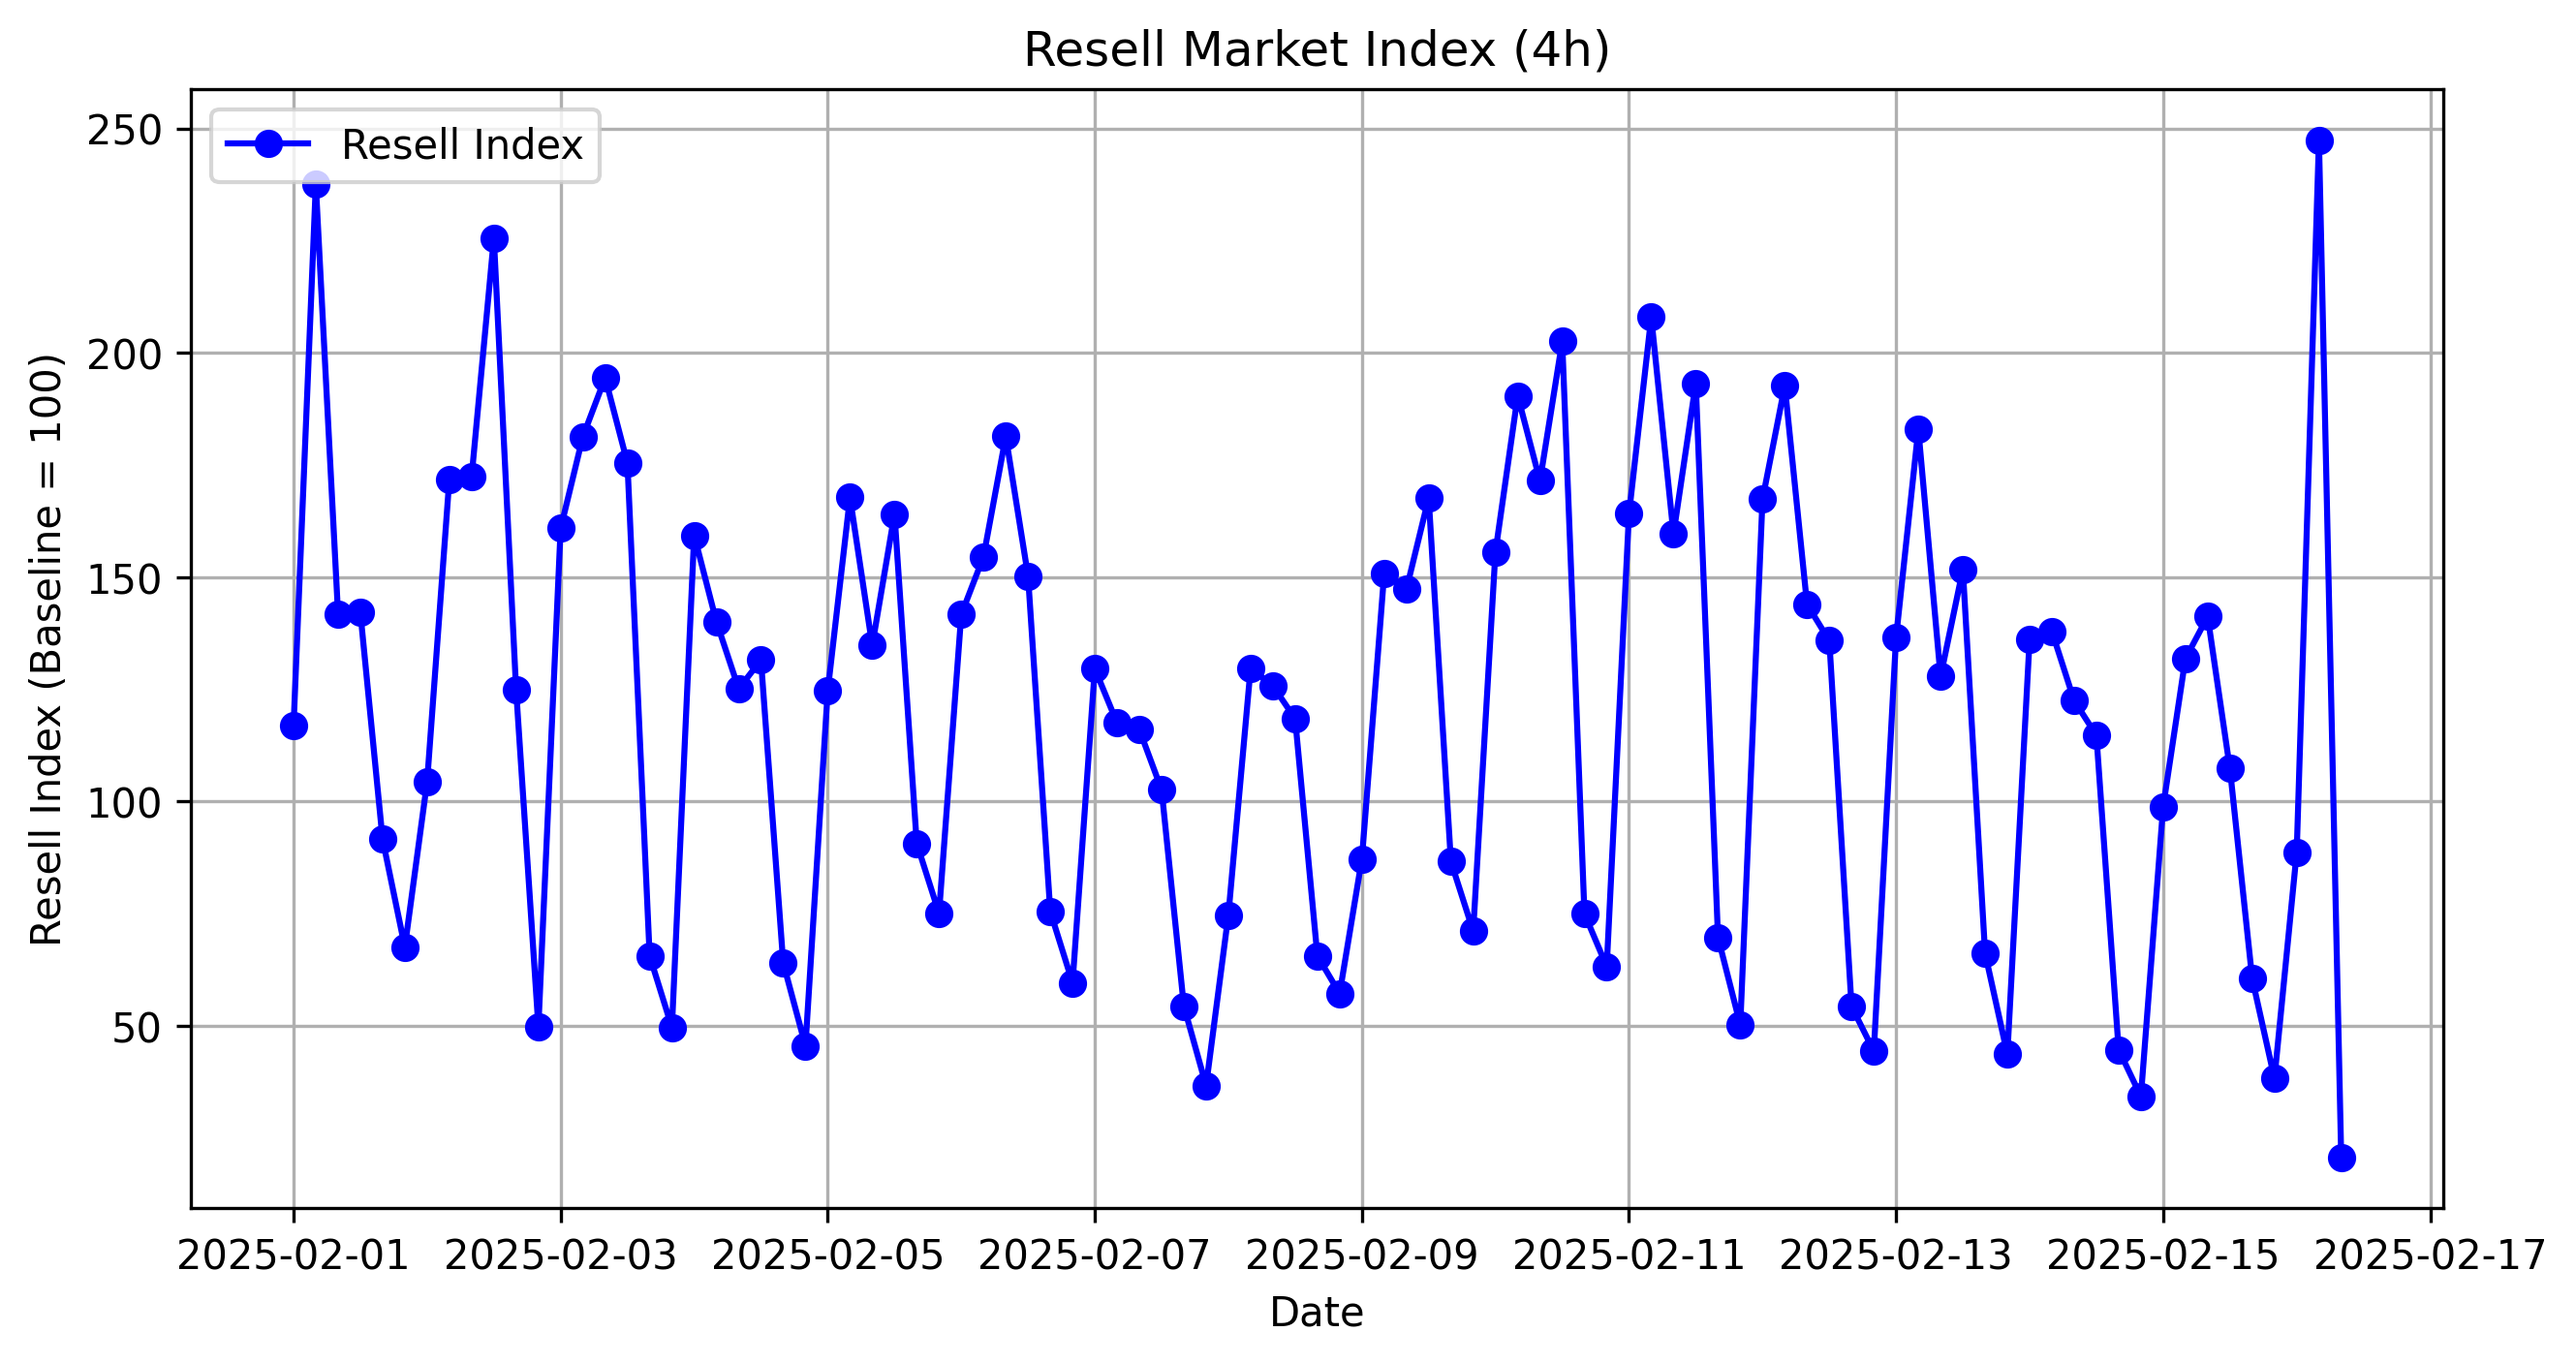
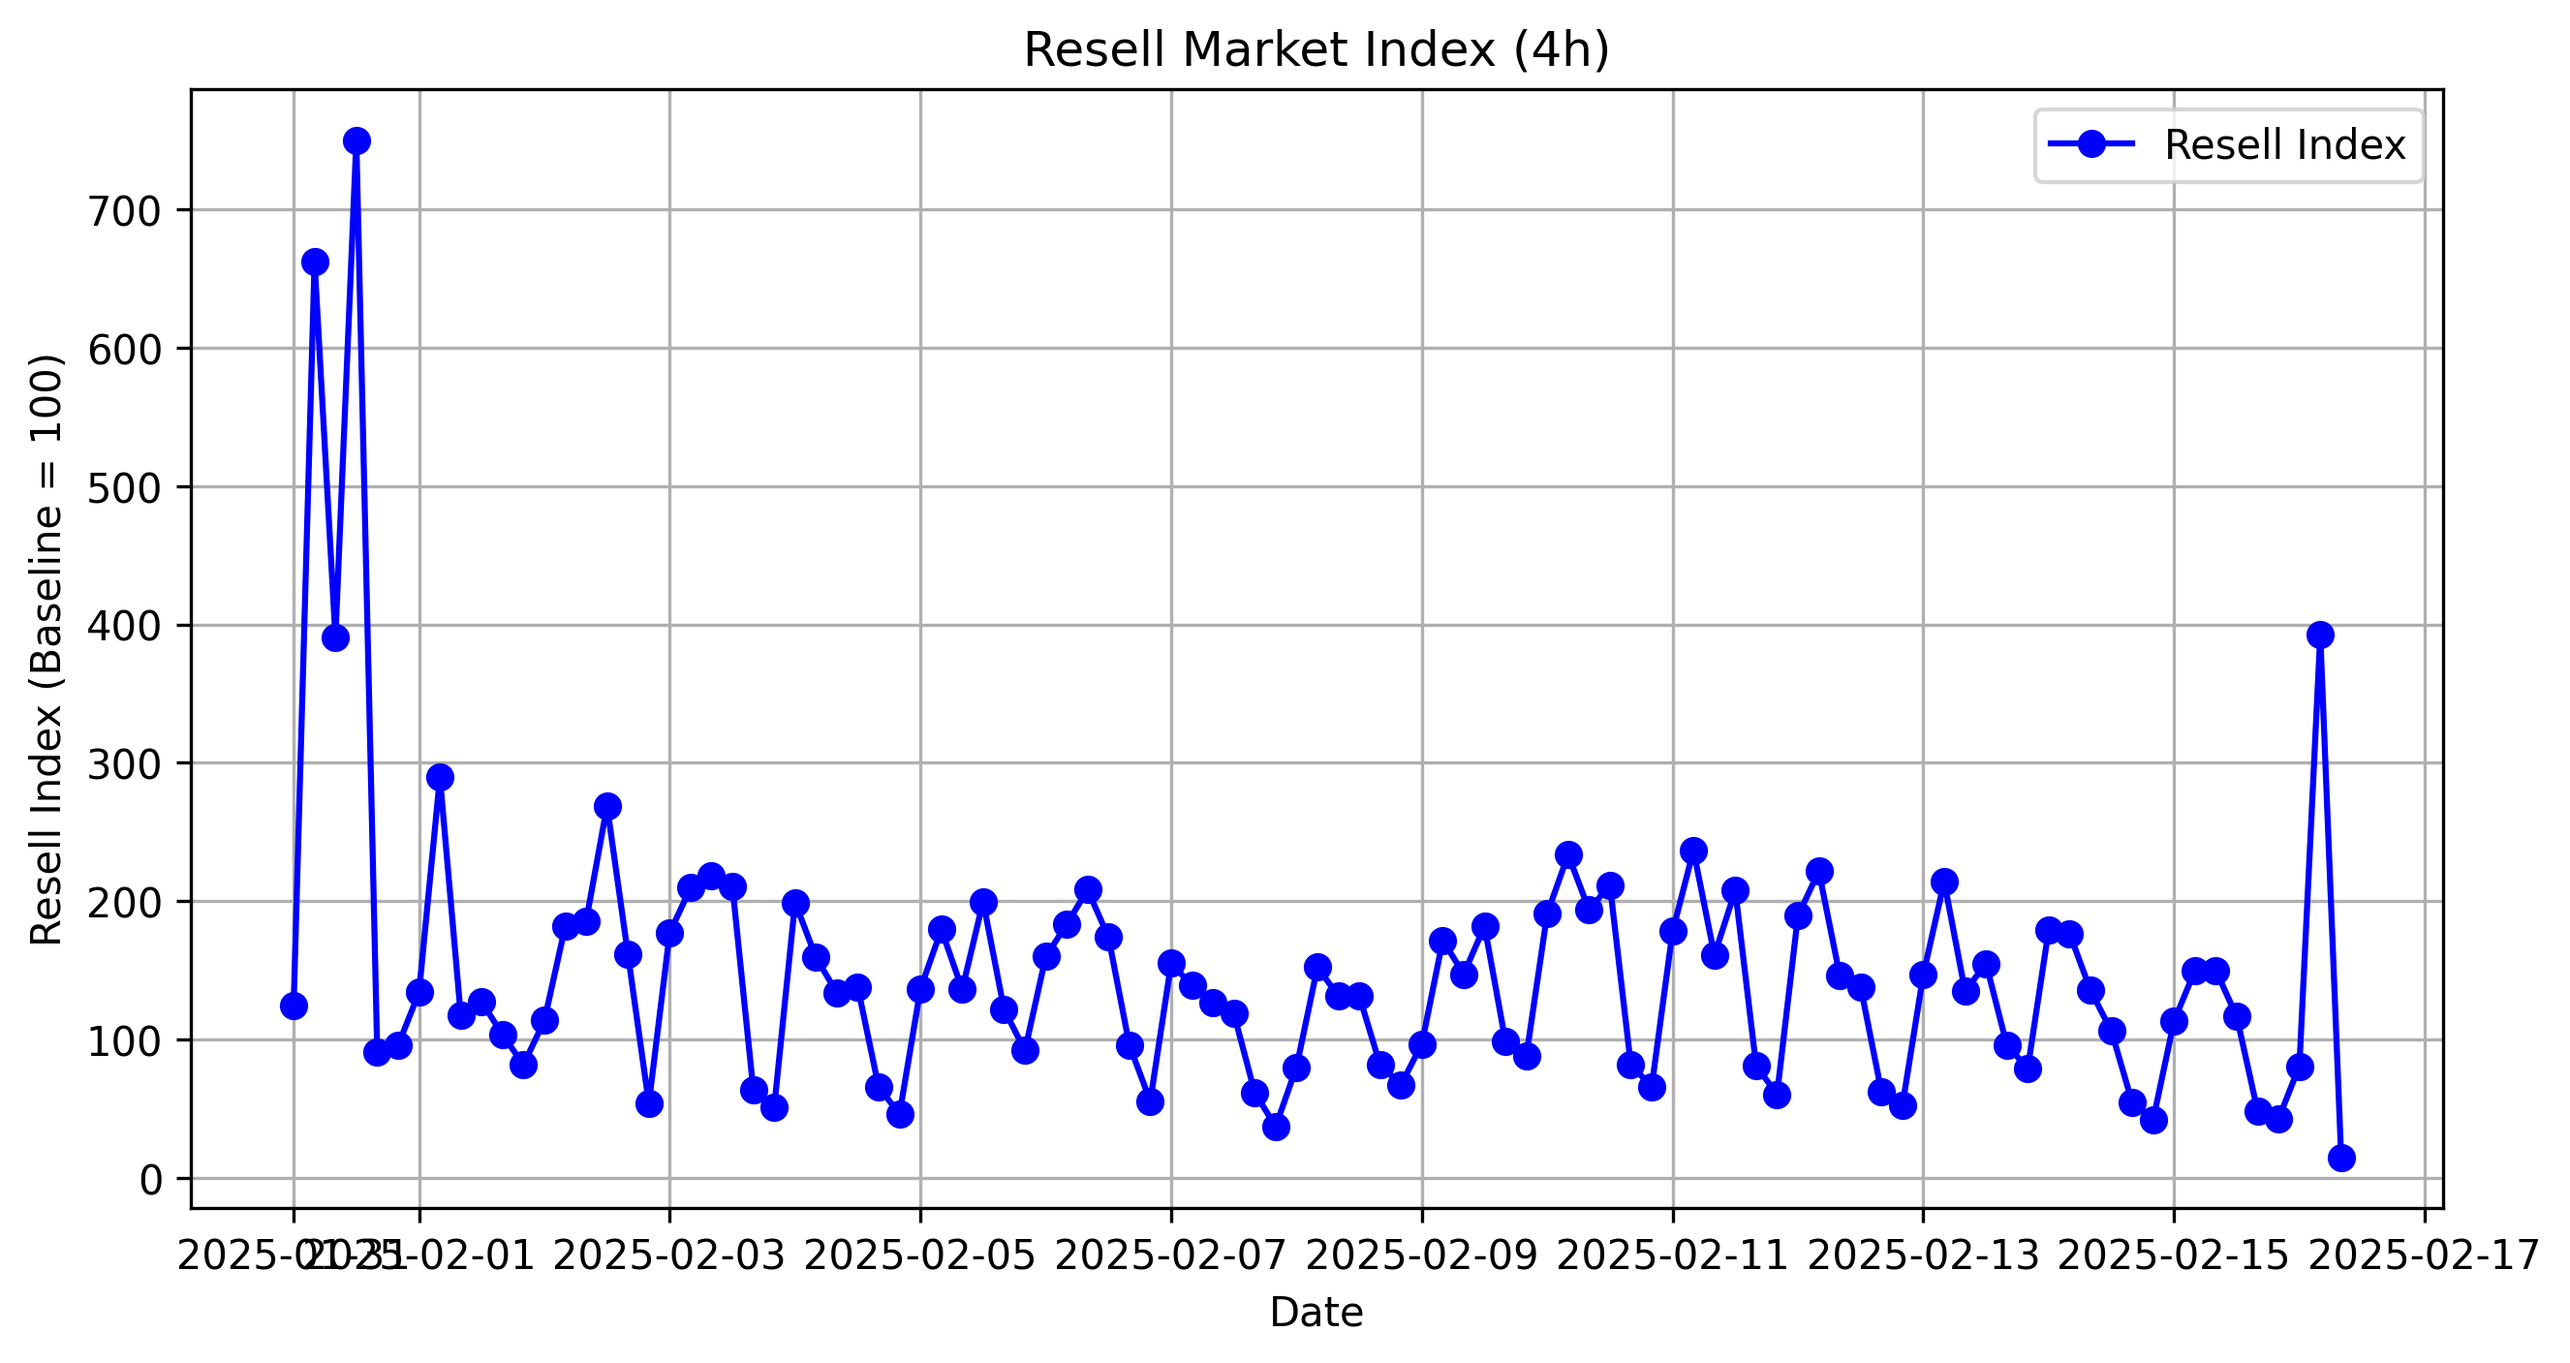
fix: 기분일을 1월 31일로 변경

diff --git a/python/calculate_resell_market.py b/python/calculate_resell_market.py
@@ -33,7 +33,7 @@ transactions = load_transaction_data()
 transactions = transactions.merge(product_meta[['product_id', 'original_price']], on="product_id", how="left")
 
 # 리셀 시장 지수 계산 (이 부분이 누락되지 않았는지 확인)
-baseline_date = "2025-02-01T00:00:00Z"
+baseline_date = "2025-01-31T00:00:00Z"
 # 24시간 간격 리셀 시장 지수 계산
 [market_resell_index_24h, market_data] = calculate_resell_market_index(transactions, product_meta, product_ids, baseline_date)
 print("\n리셀 시장 지수 (24시간 간격):")
@@ -41,7 +41,7 @@ print(market_resell_index_24h)
 
 plot_resell_index(market_resell_index_24h, title="Resell Market Index (24h)", save=True)
 
-filtered_data = market_data[market_data['date_created'] == '2025-02-01']
+filtered_data = market_data[market_data['date_created'] == '2025-01-31']
 sorted_data = filtered_data.sort_values(by='total_volume', ascending=False).head(50)
 sorted_product_ids = sorted_data['product_id'].tolist()
 

diff --git a/python/calculate_single_product.py b/python/calculate_single_product.py
@@ -12,7 +12,7 @@ transactions = load_transaction_data("36.csv")
 
 # 특정 상품 ID 설정 (예: 36번)
 product_id = 36
-baseline_date = "2025-02-01T00:00:00Z"
+baseline_date = "2025-01-31T00:00:00Z"
 
 # 리셀 지수 계산
 product_resell_data = calculate_product_resell_index(transactions, product_id, baseline_date)
@@ -38,7 +38,7 @@ transactions = load_transaction_data("36.csv")
 
 # 특정 상품 ID 및 기준일 설정
 product_id = 36
-baseline_date = "2025-02-01T00:00:00Z"
+baseline_date = "2025-01-31T00:00:00Z"
 
 # 리셀 지수 계산
 product_resell_data = calculate_product_resell_index(transactions, product_meta, product_id, baseline_date)
